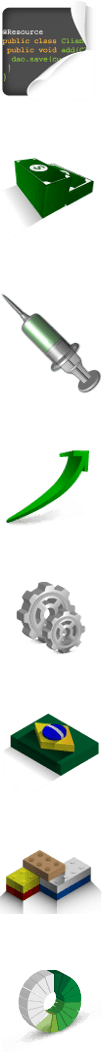
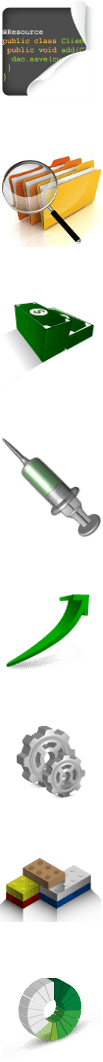
Updates

diff --git a/css/style.min.css b/css/style.min.css
@@ -1,1 +1,1 @@
-a,abbr,acronym,address,applet,article,aside,audio,b,big,blockquote,body,canvas,caption,center,cite,code,dd,del,details,dfn,div,dl,dt,em,embed,fieldset,figcaption,figure,footer,form,h1,h2,h3,h4,h5,h6,header,hgroup,html,i,iframe,img,ins,kbd,label,legend,li,mark,menu,nav,object,ol,output,p,pre,q,ruby,s,samp,section,small,span,strike,strong,sub,summary,sup,table,tbody,td,tfoot,th,thead,time,tr,tt,u,ul,var,video{margin:0;padding:0;border:0;font:inherit;vertical-align:baseline}article,aside,details,figcaption,figure,footer,header,hgroup,menu,nav,section{display:block}body{line-height:1}ol,ul{list-style:none}blockquote,q{quotes:none}blockquote:after,blockquote:before,q:after,q:before{content:'';content:none}table{border-collapse:collapse;border-spacing:0}.hll{background-color:#ffc}.c{color:#3F7F5F}.err{border:1px solid red}.k{color:#7F0055;font-weight:700}.o{color:#000}.cm{color:#3F5FBF}.cp{color:#606060;font-style:italic}.c1,.cs{color:#3F7F5F}.ge{font-style:italic}.gh,.gp,.gs,.gu{font-weight:700}.kc,.kd,.kn{color:#7F0055;font-weight:700}.kp{color:#f00000;font-weight:700}.kr{color:#7F0055;font-weight:700}.kt{font-weight:700}.m{color:#000}.s{color:#2A00FF}.na,.nc{color:#000}.nd{color:#646464}.ne,.nf,.ni,.nn{color:#000}.nt{color:#7F0055;font-weight:700}.ow{color:#000}.w{color:#bbb}.mf,.mh,.mi,.mo{color:#000}.s1,.s2,.sb,.sc,.sd,.se,.sh,.si,.sr,.ss,.sx{color:#2A00FF}.il{color:#000}body{color:#333;font-size:100%;font-family:Helvetica,arial,freesans,clean,sans-serif;background-color:#fff}code,pre,tt{font-family:Consolas,"Liberation Mono",Courier,monospace}a{color:#4183c4;text-decoration:none}h1,h2,h3{line-height:1.2;margin:1.5em 0}h1{font-size:1.8em}h2{font-size:1.3em;margin-bottom:0;padding-bottom:.5em;border-bottom:1px solid #eee}h3{font-size:1.1em}::-moz-selection{text-shadow:none;background:rgba(65,131,196,.4)}::selection{text-shadow:none;background:rgba(65,131,196,.4)}main p{margin:2em 0}main li,main p{line-height:1.7}main ol,main ul{margin:1em}main li{margin:1.5em 0;list-style-type:square}pre{background-color:#f8f8f8;overflow:auto;padding:.25em;border:1px solid #ddd;border-radius:3px;font-size:.9em;line-height:1.3;margin:1em 0}header{margin-top:.5em;text-align:center}.container{max-width:1200px;margin-left:auto;margin-right:auto;padding:1em .5em}div.note{background-color:#c2c2c2;text-indent:10px}div.note p{margin:auto;padding:1em}.logo{display:block;margin:0}.community li{display:inline-block;margin:.5em}.community a{width:32px;height:32px;overflow:hidden;padding:0;display:block}.community a:before{background:url(../img/community.png) no-repeat top left;display:inline-block;content:'';-webkit-background-size:32px;background-size:32px;width:35px;height:35px}.community a[href*="groups.google.com"]:before{background-position:0 -45px}.community a[href*="github.com"]:before{background-position:0 0}.community a[href*="guj.com.br"]:before{background-position:0 -89px}.home-call-links{display:block;text-align:center;max-width:400px;margin:0 auto}.download-btn{display:block;background-color:#224;color:#eee;font-size:2em;border-radius:5px}.download-btn:before{content:'';background-image:url(../img/download.png);background-repeat:no-repeat;-webkit-background-size:contain;background-size:contain;width:1.2em;height:1.2em;display:inline-block;vertical-align:-.7em;margin:.5em .5em .5em 0}.download-btn:focus,.download-btn:hover{background-color:#449}.old-vraptor-msg{display:block;margin:1em auto;font-style:italic;font-size:.9em}.home-advantages li{list-style:none}.home-advantages li:before{content:'';background:url(../img/advantages.png) no-repeat top left;width:105px;height:100px;float:left;margin-right:1em;margin-bottom:1em}.home-advantages strong{font-weight:700;display:block}.home-advantages .productivity:before{background-position:0 -576px}.home-advantages .learning:before{background-position:0 -444px}.home-advantages .testability:before{background-position:0 -964px}.home-advantages .economy:before{background-position:0 -153px}.home-advantages .injection:before{background-position:0 -292px}.home-advantages .soa:before{background-position:0 -845px}.home-advantages .best-practices:before{background-position:0 0}.home-advantages .pt-docs:before{background-position:0 -709px}img#eventPileline{min-width:700px;width:90%}@media (min-width:480px){.community{display:inline-block;margin-right:2em}}@media (min-width:640px){.container{padding:1em 2em}}@media (min-width:760px){header{display:-webkit-box;display:-webkit-flex;display:-ms-flexbox;display:flex;-webkit-box-align:center;-webkit-align-items:center;-ms-flex-align:center;align-items:center;padding:1em}.logo{-webkit-box-flex:1;-webkit-flex:1;-ms-flex:1;flex:1;text-align:left}.home-advantages li{display:inline-block;width:48%;vertical-align:top}.home-advantages li:nth-child(odd){margin-right:2%}.home-example-column{display:inline-block;width:48%;vertical-align:top}.home-example-column:nth-of-type(odd){margin-right:2%}}@media (min-width:60em){.home-call{text-align:justify}.home-call:after{content:'';display:inline-block;width:100%}.home-call p{width:39em;text-align:left}.home-call-links{width:16em}.home-call p,.home-call-links{display:inline-block;vertical-align:bottom}}.main-nav{max-height:0;overflow:hidden;-webkit-transition:max-height .8s;transition:max-height .8s}.main-nav h2{text-transform:uppercase;color:#aaa;margin:1em .5em}.main-nav ul{background-color:#f9f9f9}.main-nav li{text-align:center;width:100%}.main-nav a:focus,.main-nav a:hover,.main-nav li:focus,.main-nav li:hover{border-color:#eee;background-color:#eee;text-decoration:none}.main-nav a{border:1px solid #eee;width:100%;display:inline-block;padding:.5em}.main-nav ul:first-child li:first-child a{border-top:0}.main-nav ul li:not(:last-child) a{border-bottom:0}.nav-toggle{color:#8a99a7;text-align:center;display:block;cursor:pointer;border:1px solid #ccc;padding:1em;text-transform:uppercase}.nav-toggle:before{content:'\25be';margin-right:.5em}#nav-visibility{display:none}#nav-visibility:checked+.nav-toggle:before{content:'\25b4'}#nav-visibility:checked~.main-nav{max-height:500px}.doc-nav ul{padding-left:1em;margin:2em}.doc-nav li{list-style:disc outside;margin:1em 0;line-height:1.3}@media (min-width:760px){.main-nav ul{display:-webkit-box;display:-webkit-flex;display:-ms-flexbox;display:flex}.main-nav li{-webkit-box-flex:1;-webkit-flex:1;-ms-flex:1;flex:1}.main-nav a{border:0;padding:1em 0}.main-nav :not(:last-child) a{border-right:1px solid #ddd}.nav-toggle{display:none}.main-nav{max-height:100%}.doc-nav ul{-webkit-column-count:2;-moz-column-count:2;column-count:2}.doc-nav li:first-child{margin-top:0}}@media (min-width:1000px){.doc-nav ul{-webkit-column-count:3;-moz-column-count:3;column-count:3}}footer{text-align:center;background:#e4e4e4;padding:2em 0}footer h1{color:#999;text-shadow:1px 1px #fff}.who-uses li{background:url(../img/whoUses.png) no-repeat top left;display:inline-block;vertical-align:middle;text-indent:-99999px;margin:1em 2em}.who-uses .agenciaclick{background-position:0 -109px;width:181px;height:26px}.who-uses .defferrari{background-position:0 -185px;width:142px;height:78px}.who-uses .guj{background-position:0 0;width:144px;height:59px}.who-uses .locaweb{background-position:0 -313px;width:146px;height:50px}.who-uses .wine{background-position:0 -413px;width:139px;height:56px}.site-languages{display:block}.site-languages li{display:inline-block}.site-language{padding:1em;display:inline-block}.flag:before{content:'';width:16px;height:11px;display:inline-block;background:url(../img/flags.png) no-repeat}.flag-pt:before{background-position:-16px 0}.flag-en:before{background-position:-32px 0}.flag.not-selected{color:#8A99A7}.flag-pt.not-selected:before{background-position:-16px -11px}.flag-en.not-selected:before{background-position:-32px -11px}@media (min-width:480px){.site-languages{display:inline-block}}
+a,abbr,acronym,address,applet,article,aside,audio,b,big,blockquote,body,canvas,caption,center,cite,code,dd,del,details,dfn,div,dl,dt,em,embed,fieldset,figcaption,figure,footer,form,h1,h2,h3,h4,h5,h6,header,hgroup,html,i,iframe,img,ins,kbd,label,legend,li,mark,menu,nav,object,ol,output,p,pre,q,ruby,s,samp,section,small,span,strike,strong,sub,summary,sup,table,tbody,td,tfoot,th,thead,time,tr,tt,u,ul,var,video{margin:0;padding:0;border:0;font:inherit;vertical-align:baseline}article,aside,details,figcaption,figure,footer,header,hgroup,menu,nav,section{display:block}body{line-height:1}ol,ul{list-style:none}blockquote,q{quotes:none}blockquote:after,blockquote:before,q:after,q:before{content:'';content:none}table{border-collapse:collapse;border-spacing:0}.hll{background-color:#ffc}.c{color:#3F7F5F}.err{border:1px solid red}.k{color:#7F0055;font-weight:700}.o{color:#000}.cm{color:#3F5FBF}.cp{color:#606060;font-style:italic}.c1,.cs{color:#3F7F5F}.ge{font-style:italic}.gh,.gp,.gs,.gu{font-weight:700}.kc,.kd,.kn{color:#7F0055;font-weight:700}.kp{color:#f00000;font-weight:700}.kr{color:#7F0055;font-weight:700}.kt{font-weight:700}.m{color:#000}.s{color:#2A00FF}.na,.nc{color:#000}.nd{color:#646464}.ne,.nf,.ni,.nn{color:#000}.nt{color:#7F0055;font-weight:700}.ow{color:#000}.w{color:#bbb}.mf,.mh,.mi,.mo{color:#000}.s1,.s2,.sb,.sc,.sd,.se,.sh,.si,.sr,.ss,.sx{color:#2A00FF}.il{color:#000}body{color:#333;font-size:100%;font-family:Helvetica,arial,freesans,clean,sans-serif;background-color:#fff}code,pre,tt{font-family:Consolas,"Liberation Mono",Courier,monospace}a{color:#4183c4;text-decoration:none}h1,h2,h3{line-height:1.2;margin:1.5em 0}h1{font-size:1.8em}h2{font-size:1.3em;margin-bottom:0;padding-bottom:.5em;border-bottom:1px solid #eee}h3{font-size:1.1em}::-moz-selection{text-shadow:none;background:rgba(65,131,196,.4)}::selection{text-shadow:none;background:rgba(65,131,196,.4)}main p{margin:2em 0}main li,main p{line-height:1.7}main ol,main ul{margin:1em}main li{margin:1.5em 0;list-style-type:square}pre{background-color:#f8f8f8;overflow:auto;padding:.25em;border:1px solid #ddd;border-radius:3px;font-size:.9em;line-height:1.3;margin:1em 0}header{margin-top:.5em;text-align:center}.container{max-width:1200px;margin-left:auto;margin-right:auto;padding:1em .5em}div.note{background-color:#c2c2c2;text-indent:10px}div.note p{margin:auto;padding:1em}.logo{display:block;margin:0}.community li{display:inline-block;margin:.5em}.community a{width:32px;height:32px;overflow:hidden;padding:0;display:block}.community a:before{background:url(../img/community.png) no-repeat top left;display:inline-block;content:'';-webkit-background-size:32px;background-size:32px;width:35px;height:35px}.community a[href*="groups.google.com"]:before{background-position:0 -45px}.community a[href*="github.com"]:before{background-position:0 0}.community a[href*="guj.com.br"]:before{background-position:0 -89px}.home-call-links{display:block;text-align:center;max-width:400px;margin:0 auto}.download-btn{display:block;background-color:#224;color:#eee;font-size:2em;border-radius:5px}.download-btn:before{content:'';background-image:url(../img/download.png);background-repeat:no-repeat;-webkit-background-size:contain;background-size:contain;width:1.2em;height:1.2em;display:inline-block;vertical-align:-.7em;margin:.5em .5em .5em 0}.download-btn:focus,.download-btn:hover{background-color:#449}.old-vraptor-msg{display:block;margin:1em auto;font-style:italic;font-size:.9em}.home-advantages li{list-style:none}.home-advantages li:before{content:'';background:url(../img/advantages.png) no-repeat top left;width:105px;height:100px;float:left;margin-right:1em;margin-bottom:1em}.home-advantages strong{font-weight:700;display:block}.home-advantages .productivity:before{background-position:0 -720px}.home-advantages .learning:before{background-position:0 -588px}.home-advantages .testability:before{background-position:0 -972px}.home-advantages .economy:before{background-position:0 -297px}.home-advantages .injection:before{background-position:0 -436px}.home-advantages .soa:before{background-position:0 -853px}.home-advantages .best-practices:before{background-position:0 0}.home-advantages .docs:before{background-position:0 -153px}img#eventPileline{min-width:700px;width:90%}@media (min-width:480px){.community{display:inline-block;margin-right:2em}}@media (min-width:640px){.container{padding:1em 2em}}@media (min-width:760px){header{display:-webkit-box;display:-webkit-flex;display:-ms-flexbox;display:flex;-webkit-box-align:center;-webkit-align-items:center;-ms-flex-align:center;align-items:center;padding:1em}.logo{-webkit-box-flex:1;-webkit-flex:1;-ms-flex:1;flex:1;text-align:left}.home-advantages li{display:inline-block;width:48%;vertical-align:top}.home-advantages li:nth-child(odd){margin-right:2%}.home-example-column{display:inline-block;width:48%;vertical-align:top}.home-example-column:nth-of-type(odd){margin-right:2%}}@media (min-width:60em){.home-call{text-align:justify}.home-call:after{content:'';display:inline-block;width:100%}.home-call p{width:39em;text-align:left}.home-call-links{width:16em}.home-call p,.home-call-links{display:inline-block;vertical-align:bottom}}.main-nav{max-height:0;overflow:hidden;-webkit-transition:max-height .8s;transition:max-height .8s}.main-nav h2{text-transform:uppercase;color:#aaa;margin:1em .5em}.main-nav ul{background-color:#f9f9f9}.main-nav li{text-align:center;width:100%}.main-nav a:focus,.main-nav a:hover,.main-nav li:focus,.main-nav li:hover{border-color:#eee;background-color:#eee;text-decoration:none}.main-nav a{border:1px solid #eee;width:100%;display:inline-block;padding:.5em}.main-nav ul:first-child li:first-child a{border-top:0}.main-nav ul li:not(:last-child) a{border-bottom:0}.nav-toggle{color:#8a99a7;text-align:center;display:block;cursor:pointer;border:1px solid #ccc;padding:1em;text-transform:uppercase}.nav-toggle:before{content:'\25be';margin-right:.5em}#nav-visibility{display:none}#nav-visibility:checked+.nav-toggle:before{content:'\25b4'}#nav-visibility:checked~.main-nav{max-height:500px}.doc-nav ul{padding-left:1em;margin:2em}.doc-nav li{list-style:disc outside;margin:1em 0;line-height:1.3}@media (min-width:760px){.main-nav ul{display:-webkit-box;display:-webkit-flex;display:-ms-flexbox;display:flex}.main-nav li{-webkit-box-flex:1;-webkit-flex:1;-ms-flex:1;flex:1}.main-nav a{border:0;padding:1em 0}.main-nav :not(:last-child) a{border-right:1px solid #ddd}.nav-toggle{display:none}.main-nav{max-height:100%}.doc-nav ul{-webkit-column-count:2;-moz-column-count:2;column-count:2}.doc-nav li:first-child{margin-top:0}}@media (min-width:1000px){.doc-nav ul{-webkit-column-count:3;-moz-column-count:3;column-count:3}}footer{text-align:center;background:#e4e4e4;padding:2em 0}footer h1{color:#999;text-shadow:1px 1px #fff}.who-uses li{background:url(../img/whoUses.png) no-repeat top left;display:inline-block;vertical-align:middle;text-indent:-99999px;margin:1em 2em}.who-uses .agenciaclick{background-position:0 -109px;width:181px;height:26px}.who-uses .defferrari{background-position:0 -185px;width:142px;height:78px}.who-uses .guj{background-position:0 0;width:144px;height:59px}.who-uses .locaweb{background-position:0 -313px;width:146px;height:50px}.who-uses .wine{background-position:0 -413px;width:139px;height:56px}.site-languages{display:block}.site-languages li{display:inline-block}.site-language{padding:1em;display:inline-block}.flag:before{content:'';width:16px;height:11px;display:inline-block;background:url(../img/flags.png) no-repeat}.flag-pt:before{background-position:-16px 0}.flag-en:before{background-position:-32px 0}.flag.not-selected{color:#8A99A7}.flag-pt.not-selected:before{background-position:-16px -11px}.flag-en.not-selected:before{background-position:-32px -11px}@media (min-width:480px){.site-languages{display:inline-block}}

diff --git a/pt/index.html b/pt/index.html
@@ -16,4 +16,4 @@
   <span class="nt">&lt;body&gt;</span>
     ${mensagem}
   <span class="nt">&lt;/body&gt;</span>
-<span class="nt">&lt;/html&gt;</span></code></pre> </div> <p>Pronto! Agora é só acessar <a href="http://localhost:8080/home">localhost:8080/home</a>. Veja mais exemplos <a href="docs/guia-de-1-minuto">em nossa documentação</a>.</p> </section><section class="home-advantages"><h2>Por que usar o VRaptor</h2> <ul> <li class="productivity"> <strong>Alta Produtividade</strong> <p>Usar o VRaptor 4 é simples e intuitivo. Você atingirá níveis altíssimos de produtividade com Java para Web.</p> </li> <li class="learning"> <strong>Curva de Aprendizado</strong> <p>Em pouco tempo você conseguirá aprender tudo o que é necessário para desenvolver suas aplicações com o VRaptor.</p> </li> <li class="testability"> <strong>Testabilidade</strong> <p>Escreva código modularizado e desacoplado do VRaptor. Sua aplicação fica altamente testável e de fácil manutenção.</p> </li> <li class="economy"> <strong>Economia</strong> <p>Economize muitas horas de trabalho com a alta produtividade do VRaptor, a facilidade em treinar a sua equipe e a qualidade final do seu projeto.</p> </li> <li class="soa"> <strong>SOA e Rest - Ready</strong> <p>Faça aplicações RESTful ou orientadas a serviço sem complicações, como se estivesse fazendo aplicações Web normais.</p> </li> <li class="best-practices"> <strong>Melhores práticas de desenvolvimento</strong> <p>Utilizando os conceitos de Injeção de Dependência, Inversão de Controle e POJOs, seu código fica simples e testável.</p> </li> <li class="injection"> <strong>CDI</strong> <p>Tire proveito da poderosa especificação CDI (Context Dependency Injection) do Java EE 7.</p> </li> <li class="pt-docs"> <strong>Documentação em Português</strong> <p>Aprenda tudo sobre VRaptor 4 contando com uma ampla documentação, fóruns e listas de discussão em português.</p> </li> </ul></section></main><footer><h1>Quem usa</h1> <ul class="who-uses"> <li class="guj">GUJ</li> <li class="wine">wine.com.br</li> <li class="defferrari">Grupo Defferrari</li> <li class="locaweb">Locaweb</li> <li class="agenciaclick">Agência Click</li> </ul></footer> </body> </html>
+<span class="nt">&lt;/html&gt;</span></code></pre> </div> <p>Pronto! Agora é só acessar <a href="http://localhost:8080/home">localhost:8080/home</a>. Veja mais exemplos <a href="docs/guia-de-1-minuto">em nossa documentação</a>.</p> </section><section class="home-advantages"><h2>Por que usar o VRaptor</h2> <ul> <li class="productivity"> <strong>Alta Produtividade</strong> <p>Usar o VRaptor 4 é simples e intuitivo. Você atingirá níveis altíssimos de produtividade com Java para Web.</p> </li> <li class="learning"> <strong>Curva de Aprendizado</strong> <p>Em pouco tempo você conseguirá aprender tudo o que é necessário para desenvolver suas aplicações com o VRaptor.</p> </li> <li class="testability"> <strong>Testabilidade</strong> <p>Escreva código modularizado e desacoplado do VRaptor. Sua aplicação fica altamente testável e de fácil manutenção.</p> </li> <li class="economy"> <strong>Economia</strong> <p>Economize muitas horas de trabalho com a alta produtividade do VRaptor, a facilidade em treinar a sua equipe e a qualidade final do seu projeto.</p> </li> <li class="soa"> <strong>SOA e Rest - Ready</strong> <p>Faça aplicações RESTful ou orientadas a serviço sem complicações, como se estivesse fazendo aplicações Web normais.</p> </li> <li class="best-practices"> <strong>Melhores práticas de desenvolvimento</strong> <p>Utilizando os conceitos de Injeção de Dependência, Inversão de Controle e POJOs, seu código fica simples e testável.</p> </li> <li class="injection"> <strong>CDI</strong> <p>Tire proveito da poderosa especificação CDI (Context Dependency Injection) do Java EE 7.</p> </li> <li class="docs"> <strong>Documentação em Português</strong> <p>Aprenda tudo sobre VRaptor 4 contando com uma ampla documentação, fóruns e listas de discussão em português.</p> </li> </ul></section></main><footer><h1>Quem usa</h1> <ul class="who-uses"> <li class="guj">GUJ</li> <li class="wine">wine.com.br</li> <li class="defferrari">Grupo Defferrari</li> <li class="locaweb">Locaweb</li> <li class="agenciaclick">Agência Click</li> </ul></footer> </body> </html>

diff --git a/index.html b/index.html
@@ -16,4 +16,4 @@
   <span class="nt">&lt;body&gt;</span>
     ${message}
   <span class="nt">&lt;/body&gt;</span>
-<span class="nt">&lt;/html&gt;</span></code></pre> </div> <p>It is done! Now you may just access <a href="http://localhost:8080/home">localhost:8080/home</a>. See more examples <a href="en/docs/one-minute-guide">on our documentation</a>.</p> </section><section class="home-advantages"><h2>Reasons for using VRaptor</h2> <ul> <li class="productivity"> <strong>High Productivity</strong> <p>VRaptor4 is simple and intuitive. You will reach extreme productivity levels in Java for the web.</p> </li> <li class="learning"> <strong>Learning Curve</strong> <p>In very short time, you will learn everything you need to know to develop web applications with VRaptor.</p> </li> <li class="testability"> <strong>Testability</strong> <p>Write modular and loosely coupled code with VRaptor. Maintenability and testability of your application will have sensible improvement.</p> </li> <li class="economy"> <strong>Savings</strong> <p>Save many work hours with VRaptor. Training your team and enhancing your final software quality has just become easier.</p> </li> <li class="soa"> <strong>SOA and Rest - Ready</strong> <p>Make RESTful and service oriented applications with no complications. It's just like writing common web applications.</p> </li> <li class="best-practices"> <strong>Best development practices</strong> <p>Through Dependency Injection, Inversion of Control and POJO's, your code gets simpler and testable.</p> </li> <li class="injection"> <strong>CDI</strong> <p>Take advantage of the powerful Java EE 7 CDI (Context Dependency Injection) specification.</p> </li> <li class="pt-docs"> <strong>Documentation</strong> <p>You can count on a vast documentation in Portuguese and English. Plus, the discussion lists are in English.</p> </li> </ul></section></main><footer><h1>Who uses</h1> <ul class="who-uses"> <li class="guj">GUJ</li> <li class="wine">wine.com.br</li> <li class="defferrari">Grupo Defferrari</li> <li class="locaweb">Locaweb</li> <li class="agenciaclick">Agência Click</li> </ul></footer> </body> </html>
+<span class="nt">&lt;/html&gt;</span></code></pre> </div> <p>It is done! Now you may just access <a href="http://localhost:8080/home">localhost:8080/home</a>. See more examples <a href="en/docs/one-minute-guide">on our documentation</a>.</p> </section><section class="home-advantages"><h2>Reasons for using VRaptor</h2> <ul> <li class="productivity"> <strong>High Productivity</strong> <p>VRaptor4 is simple and intuitive. You will reach extreme productivity levels in Java for the web.</p> </li> <li class="learning"> <strong>Learning Curve</strong> <p>In very short time, you will learn everything you need to know to develop web applications with VRaptor.</p> </li> <li class="testability"> <strong>Testability</strong> <p>Write modular and loosely coupled code with VRaptor. Maintenability and testability of your application will have sensible improvement.</p> </li> <li class="economy"> <strong>Savings</strong> <p>Save many work hours with VRaptor. Training your team and enhancing your final software quality has just become easier.</p> </li> <li class="soa"> <strong>SOA and Rest - Ready</strong> <p>Make RESTful and service oriented applications with no complications. It's just like writing common web applications.</p> </li> <li class="best-practices"> <strong>Best development practices</strong> <p>Through Dependency Injection, Inversion of Control and POJO's, your code gets simpler and testable.</p> </li> <li class="injection"> <strong>CDI</strong> <p>Take advantage of the powerful Java EE 7 CDI (Context Dependency Injection) specification.</p> </li> <li class="docs"> <strong>Documentation</strong> <p>You can count on a vast documentation in Portuguese and English. Plus, the discussion lists are in English.</p> </li> </ul></section></main><footer><h1>Who uses</h1> <ul class="who-uses"> <li class="guj">GUJ</li> <li class="wine">wine.com.br</li> <li class="defferrari">Grupo Defferrari</li> <li class="locaweb">Locaweb</li> <li class="agenciaclick">Agência Click</li> </ul></footer> </body> </html>

diff --git a/en/index.html b/en/index.html
@@ -16,4 +16,4 @@
   <span class="nt">&lt;body&gt;</span>
     ${message}
   <span class="nt">&lt;/body&gt;</span>
-<span class="nt">&lt;/html&gt;</span></code></pre> </div> <p>It is done! Now you may just access <a href="http://localhost:8080/home">localhost:8080/home</a>. See more examples <a href="docs/one-minute-guide">on our documentation</a>.</p> </section><section class="home-advantages"><h2>Reasons for using VRaptor</h2> <ul> <li class="productivity"> <strong>High Productivity</strong> <p>VRaptor4 is simple and intuitive. You will reach extreme productivity levels in Java for the web.</p> </li> <li class="learning"> <strong>Learning Curve</strong> <p>In very short time, you will learn everything you need to know to develop web applications with VRaptor.</p> </li> <li class="testability"> <strong>Testability</strong> <p>Write modular and loosely coupled code with VRaptor. Maintenability and testability of your application will have sensible improvement.</p> </li> <li class="economy"> <strong>Savings</strong> <p>Save many work hours with VRaptor. Training your team and enhancing your final software quality has just become easier.</p> </li> <li class="soa"> <strong>SOA and Rest - Ready</strong> <p>Make RESTful and service oriented applications with no complications. It's just like writing common web applications.</p> </li> <li class="best-practices"> <strong>Best development practices</strong> <p>Through Dependency Injection, Inversion of Control and POJO's, your code gets simpler and testable.</p> </li> <li class="injection"> <strong>CDI</strong> <p>Take advantage of the powerful Java EE 7 CDI (Context Dependency Injection) specification.</p> </li> <li class="pt-docs"> <strong>Documentation</strong> <p>You can count on a vast documentation in Portuguese and English. Plus, the discussion lists are in English.</p> </li> </ul></section></main><footer><h1>Who uses</h1> <ul class="who-uses"> <li class="guj">GUJ</li> <li class="wine">wine.com.br</li> <li class="defferrari">Grupo Defferrari</li> <li class="locaweb">Locaweb</li> <li class="agenciaclick">Agência Click</li> </ul></footer> </body> </html>
+<span class="nt">&lt;/html&gt;</span></code></pre> </div> <p>It is done! Now you may just access <a href="http://localhost:8080/home">localhost:8080/home</a>. See more examples <a href="docs/one-minute-guide">on our documentation</a>.</p> </section><section class="home-advantages"><h2>Reasons for using VRaptor</h2> <ul> <li class="productivity"> <strong>High Productivity</strong> <p>VRaptor4 is simple and intuitive. You will reach extreme productivity levels in Java for the web.</p> </li> <li class="learning"> <strong>Learning Curve</strong> <p>In very short time, you will learn everything you need to know to develop web applications with VRaptor.</p> </li> <li class="testability"> <strong>Testability</strong> <p>Write modular and loosely coupled code with VRaptor. Maintenability and testability of your application will have sensible improvement.</p> </li> <li class="economy"> <strong>Savings</strong> <p>Save many work hours with VRaptor. Training your team and enhancing your final software quality has just become easier.</p> </li> <li class="soa"> <strong>SOA and Rest - Ready</strong> <p>Make RESTful and service oriented applications with no complications. It's just like writing common web applications.</p> </li> <li class="best-practices"> <strong>Best development practices</strong> <p>Through Dependency Injection, Inversion of Control and POJO's, your code gets simpler and testable.</p> </li> <li class="injection"> <strong>CDI</strong> <p>Take advantage of the powerful Java EE 7 CDI (Context Dependency Injection) specification.</p> </li> <li class="docs"> <strong>Documentation</strong> <p>You can count on a vast documentation in Portuguese and English. Plus, the discussion lists are in English.</p> </li> </ul></section></main><footer><h1>Who uses</h1> <ul class="who-uses"> <li class="guj">GUJ</li> <li class="wine">wine.com.br</li> <li class="defferrari">Grupo Defferrari</li> <li class="locaweb">Locaweb</li> <li class="agenciaclick">Agência Click</li> </ul></footer> </body> </html>

diff --git a/css/style.css b/css/style.css
@@ -195,35 +195,35 @@ div.note p {
 }
 
 .home-advantages .productivity:before {
-  background-position: 0 -576px;
+  background-position: 0 -720px;
 }
 
 .home-advantages .learning:before {
-  background-position: 0 -444px;
+  background-position: 0 -588px;
 }
 
 .home-advantages .testability:before {
-  background-position: 0 -964px;
+  background-position: 0 -972px;
 }
 
 .home-advantages .economy:before {
-  background-position: 0 -153px;
+  background-position: 0 -297px;
 }
 
 .home-advantages .injection:before {
-  background-position: 0 -292px;
+  background-position: 0 -436px;
 }
 
 .home-advantages .soa:before {
-  background-position: 0 -845px;
+  background-position: 0 -853px; 
 }
 
 .home-advantages .best-practices:before {
   background-position: 0 0;
 }
 
-.home-advantages .pt-docs:before {
-  background-position: 0 -709px;
+.home-advantages .docs:before {
+  background-position: 0 -153px;
 }
 
 img#eventPileline {
